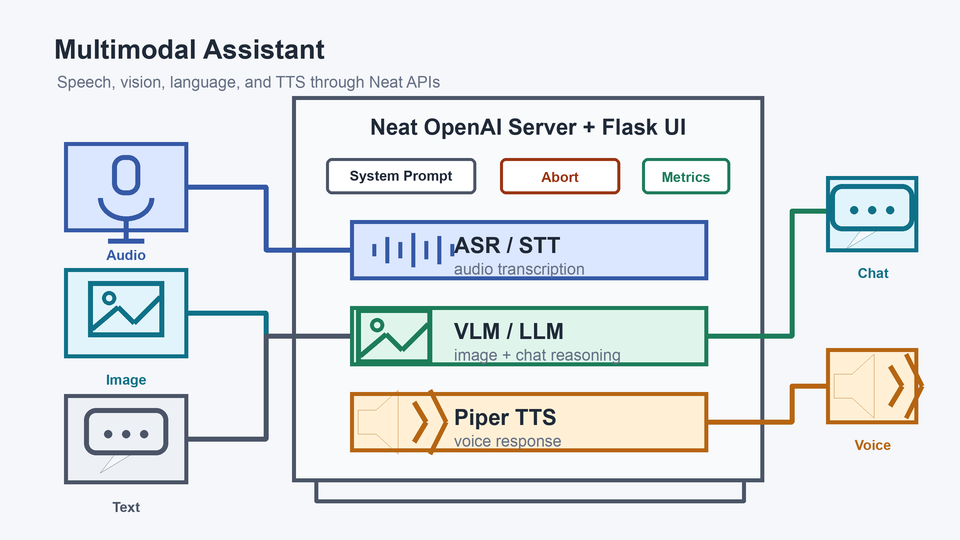
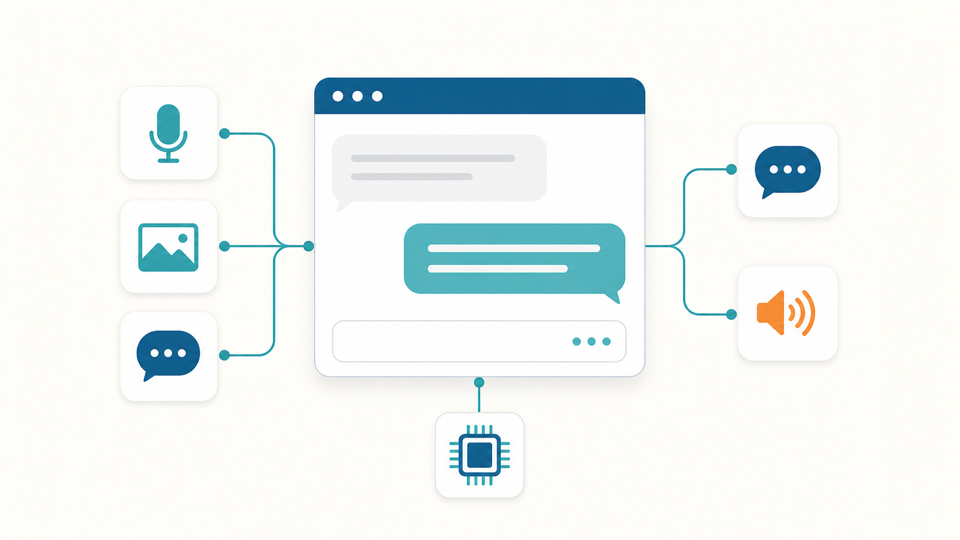
Fix CodeQL alerts in Multimodal Assistant (#244)
* fix(genai): harden multimodal inputs

Validate uploaded image filenames before saving them and resolve voice selections against available asset basenames. Keep detailed exception output in server logs instead of API responses.

Declare read-only token permissions for nightly E2E so CodeQL does not rely on default workflow permissions.

Closes #192

* image refinements

Changed region(s): [[0.0312, 0.0593, 0.9688, 0.9481], [0.9062, 0.5037, 0.9375, 0.5333]]

diff --git a/examples/genai/multimodal-assistant/src/python/ui/templates/newui.html b/examples/genai/multimodal-assistant/src/python/ui/templates/newui.html
@@ -168,9 +168,7 @@
             <button id="sendButton" class="input-button" title="Send">
               <img src="{{ url_for('static', filename='icons/send.png') }}" alt="Send" width="24" height="24">
             </button>
-            <button id="recordButton" class="input-button" title="Record Audio"
-              data-muted-url="{{ url_for('static', filename='icons/muted.png') }}"
-              data-active-url="{{ url_for('static', filename='icons/microphone.png') }}">
+            <button id="recordButton" class="input-button" title="Record Audio">
               <img id="recordIcon" src="{{ url_for('static', filename='icons/muted.png') }}" alt="Record" width="24"
                 height="24">
             </button>
@@ -211,6 +209,12 @@
     </div>
   </div>
 
+  <script>
+    window.recordIconUrls = Object.freeze({
+      muted: "{{ url_for('static', filename='icons/muted.png') }}",
+      active: "{{ url_for('static', filename='icons/microphone.png') }}"
+    });
+  </script>
   <script src="{{ url_for('static', filename='newui.js') }}"></script>
   <script src="{{ url_for('static', filename='socket.io.min.js') }}"></script>
 </body>

diff --git a/examples/genai/multimodal-assistant/src/python/ui/static/newui.js b/examples/genai/multimodal-assistant/src/python/ui/static/newui.js
@@ -6,6 +6,7 @@ const messageInput = document.getElementById('messageInput');
 const sendButton = document.getElementById('sendButton');
 const recordButton = document.getElementById('recordButton');
 const recordIcon = document.getElementById('recordIcon');
+const recordIconUrls = window.recordIconUrls;
 const snapChatButton = document.getElementById('snapChatButton');
 const uploadButton = document.getElementById('uploadButton');
 const themeToggle = document.getElementById('themeToggle');
@@ -496,10 +497,7 @@ window.onload = function () {
 };
 
 function toggleMicrophone(mute) {
-  const mutedUrl = recordButton.getAttribute('data-muted-url');
-  const activeUrl = recordButton.getAttribute('data-active-url');
-
-  recordIcon.src = mute ? mutedUrl : activeUrl;
+  recordIcon.src = mute ? recordIconUrls.muted : recordIconUrls.active;
 
   if (audioTracks.length > 0) {
     audioTracks[0].enabled = !mute;

diff --git a/examples/genai/multimodal-assistant/src/python/ui/flask_app.py b/examples/genai/multimodal-assistant/src/python/ui/flask_app.py
@@ -46,6 +46,23 @@ RAG_DB_PATH = None
 start_service = None
 create_markdown_vectordb = None
 
+
+def save_image_upload_as_base64(image_file, upload_folder):
+    filename = secure_filename(image_file.filename or "")
+    if not filename:
+        raise ValueError("Invalid image file name")
+
+    upload_dir = Path(upload_folder).resolve()
+    upload_dir.mkdir(parents=True, exist_ok=True)
+    image_path = (upload_dir / filename).resolve()
+    # Raises ValueError if filename resolution escapes upload_dir.
+    image_path.relative_to(upload_dir)
+
+    image_file.save(str(image_path))
+    with image_path.open('rb') as img_file:
+        return image_path, base64.b64encode(img_file.read()).decode('utf-8')
+
+
 def ensure_rag_modules_loaded():
     global rag_db_client
     global RAG_DB_PATH
@@ -782,12 +799,14 @@ class AppContext:
                 if not voice_id:
                     return jsonify({'error': 'voiceId is required'}), 400
                 assets_dir = Path('assets')
-                candidate = assets_dir / voice_id
-                if not candidate.exists():
-                    # try adding .onnx
-                    candidate = assets_dir / f"{voice_id}.onnx"
-                if not candidate.exists():
-                    return jsonify({'error': f'Voice model not found: {voice_id}'}), 404
+                voice_name = str(voice_id)
+                voice_names = [voice_name]
+                if not voice_name.endswith('.onnx'):
+                    voice_names.append(f"{voice_name}.onnx")
+                available_voices = {path.name: path for path in assets_dir.glob('*.onnx')}
+                candidate = next((available_voices[name] for name in voice_names if name in available_voices), None)
+                if candidate is None:
+                    return jsonify({'error': 'Voice model not found'}), 404
 
                 from pipertts import PiperTTS
                 with self.talk_ctrl.lock:
@@ -813,9 +832,9 @@ class AppContext:
                     logging.warning(f"Voice switch confirmation audio failed: {ee}")
 
                 return jsonify({'status': 'ok', 'lang': lang, 'current': self.current_voice_by_lang.get(lang)})
-            except Exception as e:
-                logging.error(f"Voice selection failed: {e}")
-                return jsonify({'error': str(e)}), 500
+            except Exception:
+                logging.exception("Voice selection failed")
+                return jsonify({'error': 'Voice selection failed'}), 500
 
         @self.app.route('/stop', methods=['POST'])
         def stop_processing():
@@ -868,8 +887,8 @@ class AppContext:
             cfg = genai_app.get_config()
             try:
                 selected_model = self.resolve_chat_model(request.form.get('chatModel'))
-            except ValueError as e:
-                return jsonify({'error': str(e)}), 400
+            except ValueError:
+                return jsonify({'error': 'Invalid chat model'}), 400
 
             self.talk_ctrl.reset()
             self.talk_ctrl.set_language(language)
@@ -888,12 +907,10 @@ class AppContext:
             audio_path = None
 
             if image_file:
-                image_path = os.path.join(cfg['UPLOAD_FOLDER'], image_file.filename)
-                image_file.save(image_path)
-
-                # Convert image to base64 for conversation history
-                with open(image_path, 'rb') as img_file:
-                    image_base64 = base64.b64encode(img_file.read()).decode('utf-8')
+                try:
+                    image_path, image_base64 = save_image_upload_as_base64(image_file, cfg['UPLOAD_FOLDER'])
+                except ValueError:
+                    return jsonify({'error': 'Invalid image file name'}), 400
 
             # If textchat is present, use it directly
             if chat:
@@ -1049,9 +1066,9 @@ class AppContext:
                     }
                 )
 
-            except Exception as e:
-                logging.error(f"TTS endpoint error: {e}")
-                return jsonify({'error': str(e)}), 500
+            except Exception:
+                logging.exception("TTS endpoint error")
+                return jsonify({'error': 'TTS request failed'}), 500
 
         # Only register image upload route if not in LLM-only mode
         if not self.llm_only:
@@ -1066,8 +1083,8 @@ class AppContext:
                 cfg = genai_app.get_config()
                 try:
                     selected_model = self.resolve_chat_model(request.form.get('chatModel'))
-                except ValueError as e:
-                    return jsonify({'error': str(e)}), 400
+                except ValueError:
+                    return jsonify({'error': 'Invalid chat model'}), 400
 
                 had_active_generation = self.interrupt_active_generation(preserve_partial=True)
                 if had_active_generation:
@@ -1079,12 +1096,10 @@ class AppContext:
                 image_path = None
                 image_base64 = None
                 if image_file:
-                    image_path = os.path.join(cfg['UPLOAD_FOLDER'], image_file.filename)
-                    image_file.save(image_path)
-
-                    # Convert image to base64 for conversation history
-                    with open(image_path, 'rb') as img_file:
-                        image_base64 = base64.b64encode(img_file.read()).decode('utf-8')
+                    try:
+                        image_path, image_base64 = save_image_upload_as_base64(image_file, cfg['UPLOAD_FOLDER'])
+                    except ValueError:
+                        return jsonify({'error': 'Invalid image file name'}), 400
 
                 # Add to conversation history and start assistant response (always has image)
                 self.add_user_message(query_str, has_image=True, image_base64=image_base64)
